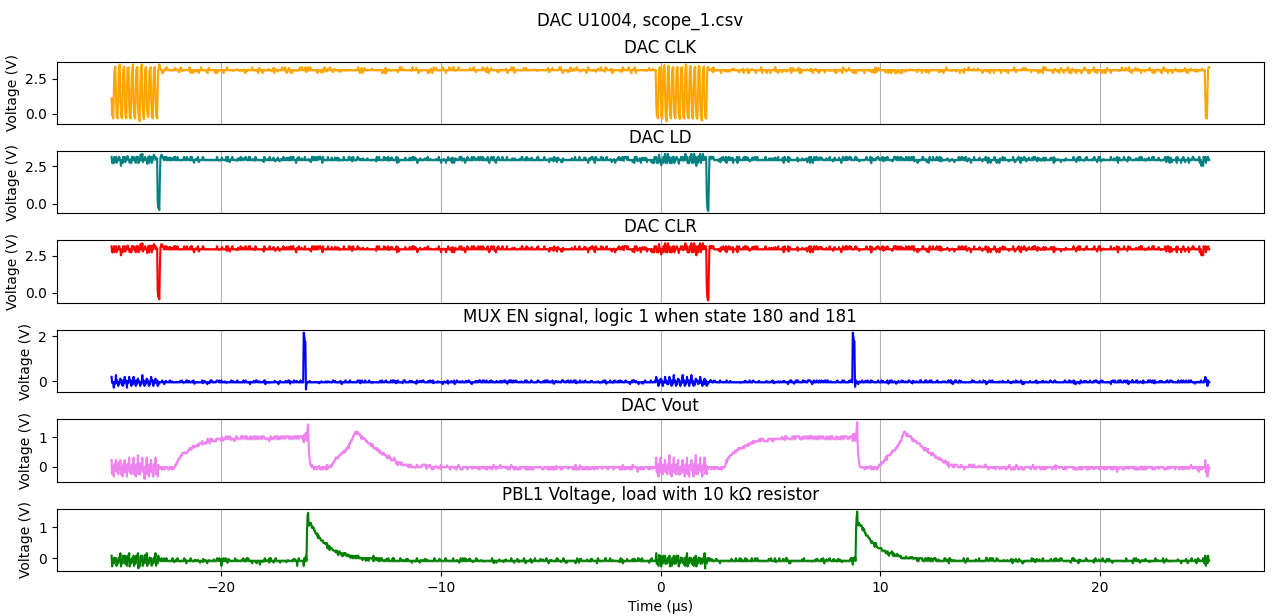
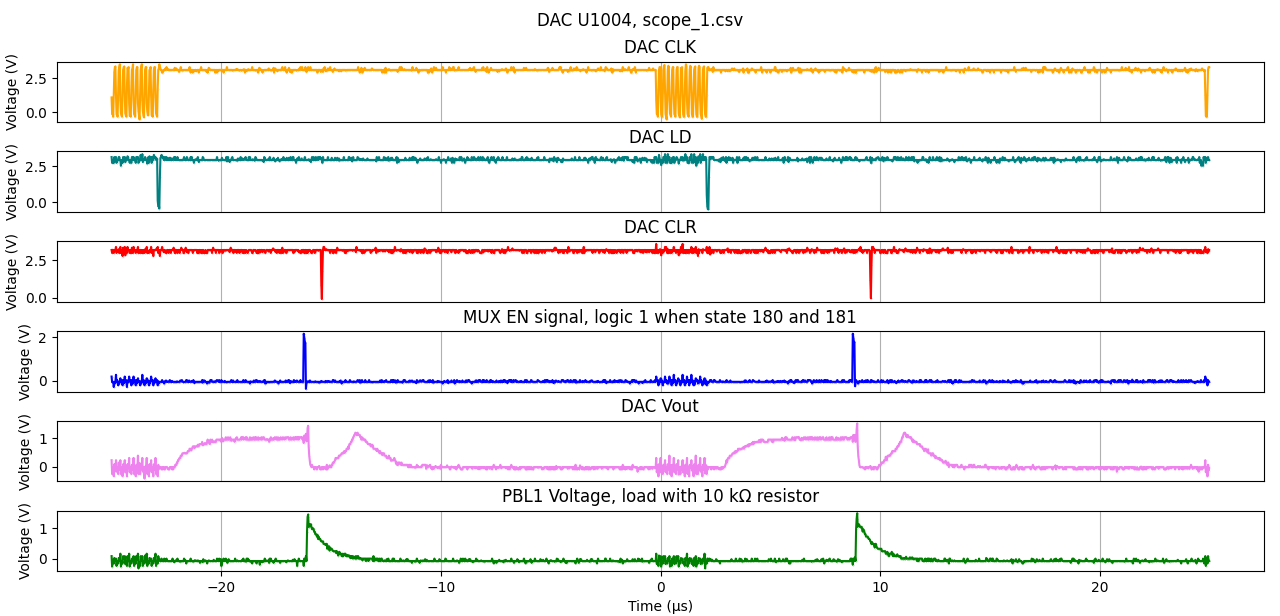
更新圖片錯誤

diff --git a/PCB 測試/DAC 波形測試/DAC_U1004_MUX_EN/plot1_p.py b/PCB 測試/DAC 波形測試/DAC_U1004_MUX_EN/plot1_p.py
@@ -42,7 +42,7 @@ def plot_csv(data, data2):
     plt.gca().yaxis.grid(False, which='both')  # Only vertical lines
 
     plt.subplot(6, 1, 3)
-    plt.plot(time_values, LD_values, color='red', marker='o', markersize=0.1)
+    plt.plot(time_values, CLR_values, color='red', marker='o', markersize=0.1)
     plt.ylabel('Voltage (V)')
     plt.title('DAC CLR')
     plt.tick_params(axis='x', which='both', bottom=False, top=False, labelbottom=False)  # Remove x-axis labels
